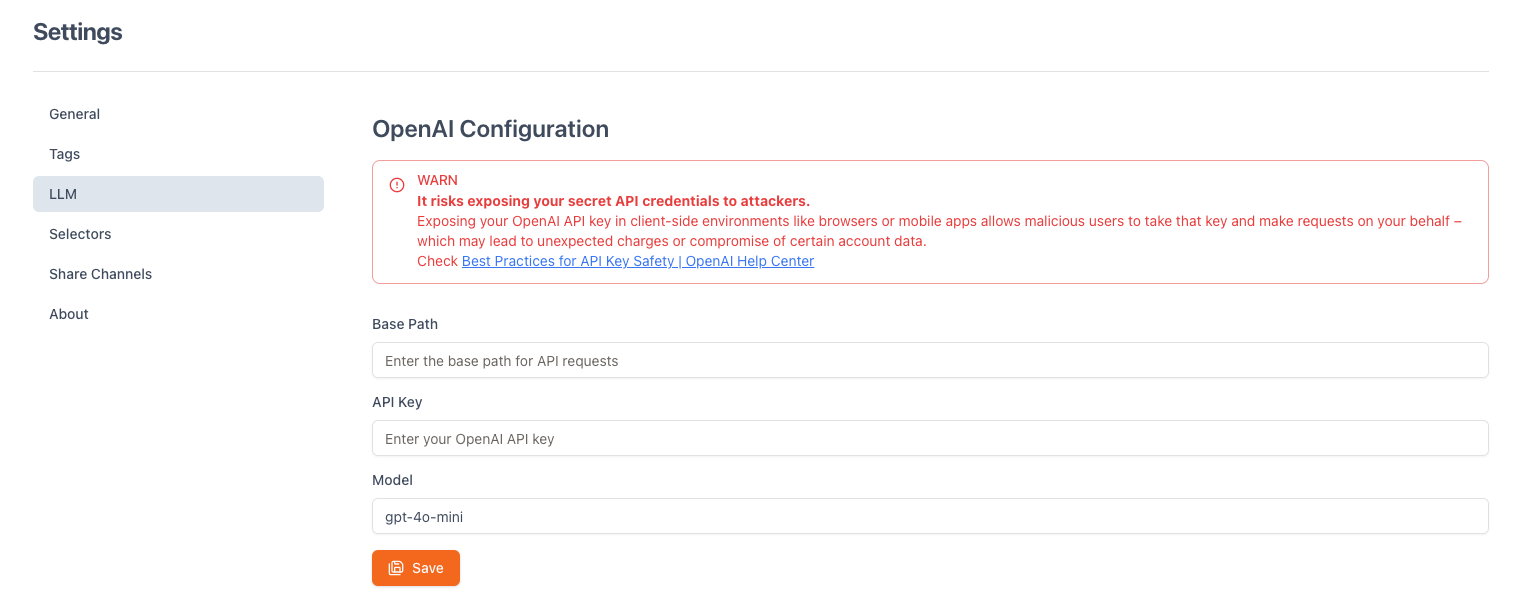
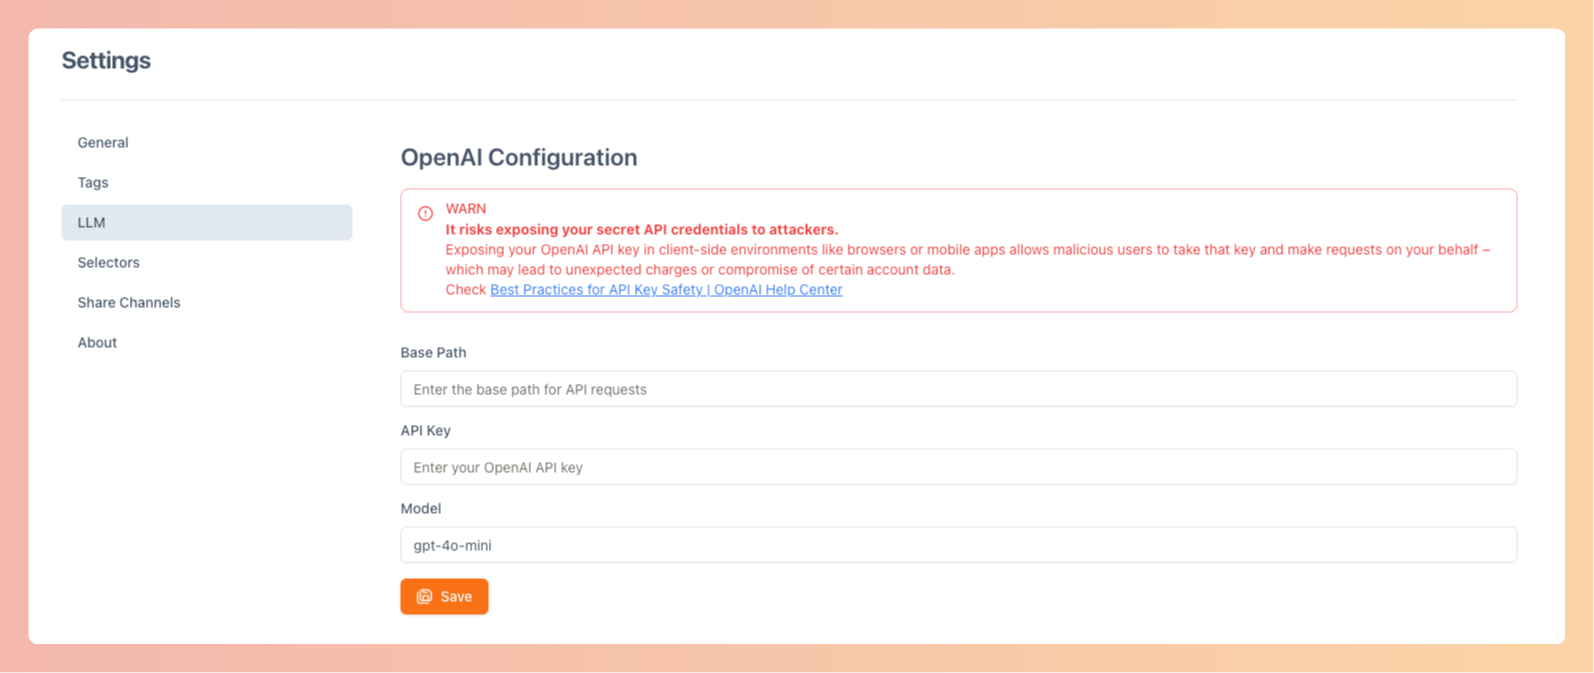
update screenshots

Changed region(s): [[0.0, 0.0, 1.0, 1.0], [0.2498, 0.1851, 0.406, 0.2468]]

diff --git a/README.md b/README.md
@@ -3,29 +3,36 @@
   <span>Wise Favorites Extension</span>
 </h1>
 
-This is a free and open-source Google Chrome extension, designed to enhance your web experience by seamlessly extracting, converting, and organizing content for smarter information management and sharing.
+This is a free and open-source Google Chrome extension, designed to enhance your web experience by seamlessly
+extracting, converting, and organizing content for smarter information management and sharing.
 
-![Side Panel](./docs/images/sidepanel.png)
-![telegram channel](docs/images/telegram-channel.png)
+<div align="center">
+  <img width="432" src="./docs/images/sidepanel.png" alt="Side Panel">
+</div>
 
 <details>
 <summary>More screenshots</summary>
 
 **Side Panel**
 
-![Side Panel With Page](./docs/images/sidepanel-full.png)
-![Side Panel](./docs/images/sidepanel.png)
+![Side Panel](./docs/images/sidepanel-merge.png)
 
 **Popup**
 
-![Popup In Page](./docs/images/popup-full.png)
-![Popup](./docs/images/popup.png)
+![Popup](./docs/images/popup-merge.png)
+
+**Share**
+
+![telegram channel](docs/images/share-telegram-channel.png)
 
 **Settings**
 
 ![setting-tags.png](docs/images/setting-tags.png)
+
 ![setting-selectors.png](docs/images/setting-selectors.png)
+
 ![setting-share-channels.png](docs/images/setting-share-channels.png)
+
 ![setting-llm.png](docs/images/setting-llm.png)
 
 </details>
@@ -42,7 +49,9 @@ This is a free and open-source Google Chrome extension, designed to enhance your
 - 🚀 **Seamless Sharing**: Effortlessly share extracted content to telegram channel
   or [wise-favorites-worker](https://github.com/ethan4768/wise-favorites-worker).
 
-- 🤖 **AI-Enhanced Tagging**: Harness the power of OpenAI to intelligently tag content by selecting from a pre-set list of tags or generating new tags based on the content itself. You can manually modify these tags as needed, ensuring accurate and contextually relevant categorization.
+- 🤖 **AI-Enhanced Tagging**: Harness the power of OpenAI to intelligently tag content by selecting from a pre-set list
+  of tags or generating new tags based on the content itself. You can manually modify these tags as needed, ensuring
+  accurate and contextually relevant categorization.
 
 - 📋 **Markdown Copy**: Quickly copy page titles and URLs in Markdown format to streamline documentation and note-taking.
 
@@ -50,7 +59,8 @@ This is a free and open-source Google Chrome extension, designed to enhance your
 
 ### Manual Installation
 
-1. Download the extension's `.zip` file from **[latest available release](https://github.com/ethan4768/wise-favorites-extension/releases)**.
+1. Download the extension's `.zip` file from *
+   *[latest available release](https://github.com/ethan4768/wise-favorites-extension/releases)**.
 2. Unzip the file.
 3. Open `chrome://extensions/` in your browser.
 4. Enable "Developer mode" in the top right.
@@ -61,20 +71,26 @@ This is a free and open-source Google Chrome extension, designed to enhance your
 This extension is built utilizing the following open-source projects and libraries:
 
 - **Framework & UI**:
-  - [wxt-dev/wxt](https://github.com/wxt-dev/wxt): Utilized as the next-gen framework for optimizing extension development.
-  - [shadcn/ui](https://ui.shadcn.com/) & [shadcn-ui-expansions](https://github.com/hsuanyi-chou/shadcn-ui-expansions): Provide the beautifully designed UI components to enhance user interaction.
-  - [Tailwind CSS](https://tailwindcss.com/): Leveraged for rapid and efficient styling.
+    - [wxt-dev/wxt](https://github.com/wxt-dev/wxt): Utilized as the next-gen framework for optimizing extension
+      development.
+    - [shadcn/ui](https://ui.shadcn.com/) & [shadcn-ui-expansions](https://github.com/hsuanyi-chou/shadcn-ui-expansions):
+      Provide the beautifully designed UI components to enhance user interaction.
+    - [Tailwind CSS](https://tailwindcss.com/): Leveraged for rapid and efficient styling.
 
 - **Content Parsing**:
-  - [cheeriojs/cheerio](https://github.com/cheeriojs/cheerio): For parsing and manipulating HTML content.
-  - [mozilla/readability](https://github.com/mozilla/readability): Utilized for extracting readable content from web pages.
+    - [cheeriojs/cheerio](https://github.com/cheeriojs/cheerio): For parsing and manipulating HTML content.
+    - [mozilla/readability](https://github.com/mozilla/readability): Utilized for extracting readable content from web
+      pages.
 
 - **Markdown Conversion**:
-  - [unifiedjs/unified](https://github.com/unifiedjs/unified) & [rehypejs/rehype](https://github.com/rehypejs/rehype): Facilitate processing and transforming HTML to Markdown.
-  - [rehypejs/rehype-remark](https://github.com/rehypejs/rehype-remark): Transforms HTML content into Markdown format for better integration with documentation tools.
+    - [unifiedjs/unified](https://github.com/unifiedjs/unified) & [rehypejs/rehype](https://github.com/rehypejs/rehype):
+      Facilitate processing and transforming HTML to Markdown.
+    - [rehypejs/rehype-remark](https://github.com/rehypejs/rehype-remark): Transforms HTML content into Markdown format
+      for better integration with documentation tools.
 
 - **AI & LLM**:
-  - [openai/openai-node](https://github.com/openai/openai-node): Integrated for utilizing OpenAI's API to enhance tagging with AI-driven insights.
+    - [openai/openai-node](https://github.com/openai/openai-node): Integrated for utilizing OpenAI's API to enhance
+      tagging with AI-driven insights.
 
 ## License
 
